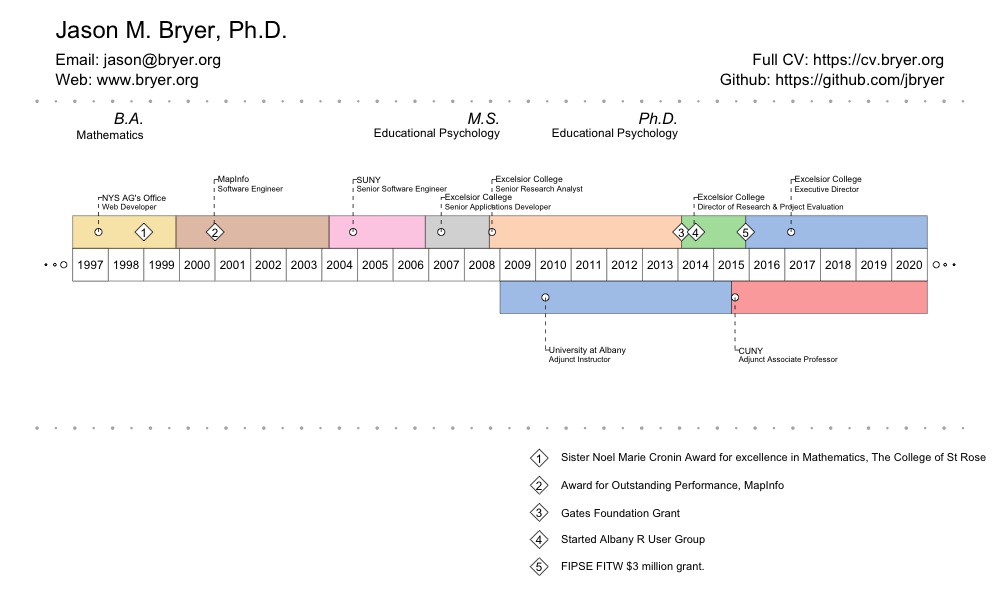
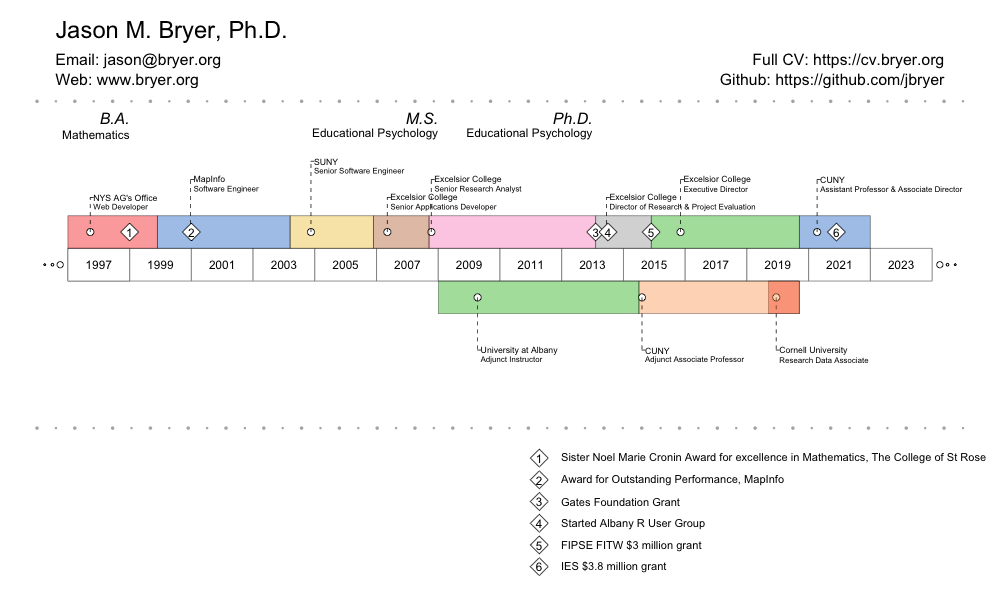
Updated visual resume.

diff --git a/README.md b/README.md
@@ -1,7 +1,7 @@
 ### Curriculum Vitae
 
 * [Click here for PDF version of my CV](https://github.com/jbryer/CV/blob/master/Bryer_CV.pdf?raw=true)
-* [Click here for WEb version of my CV](http://cv.bryer.org)
+* [Click here for Web version of my CV](http://cv.bryer.org)
 
 
 ### Contact Information
